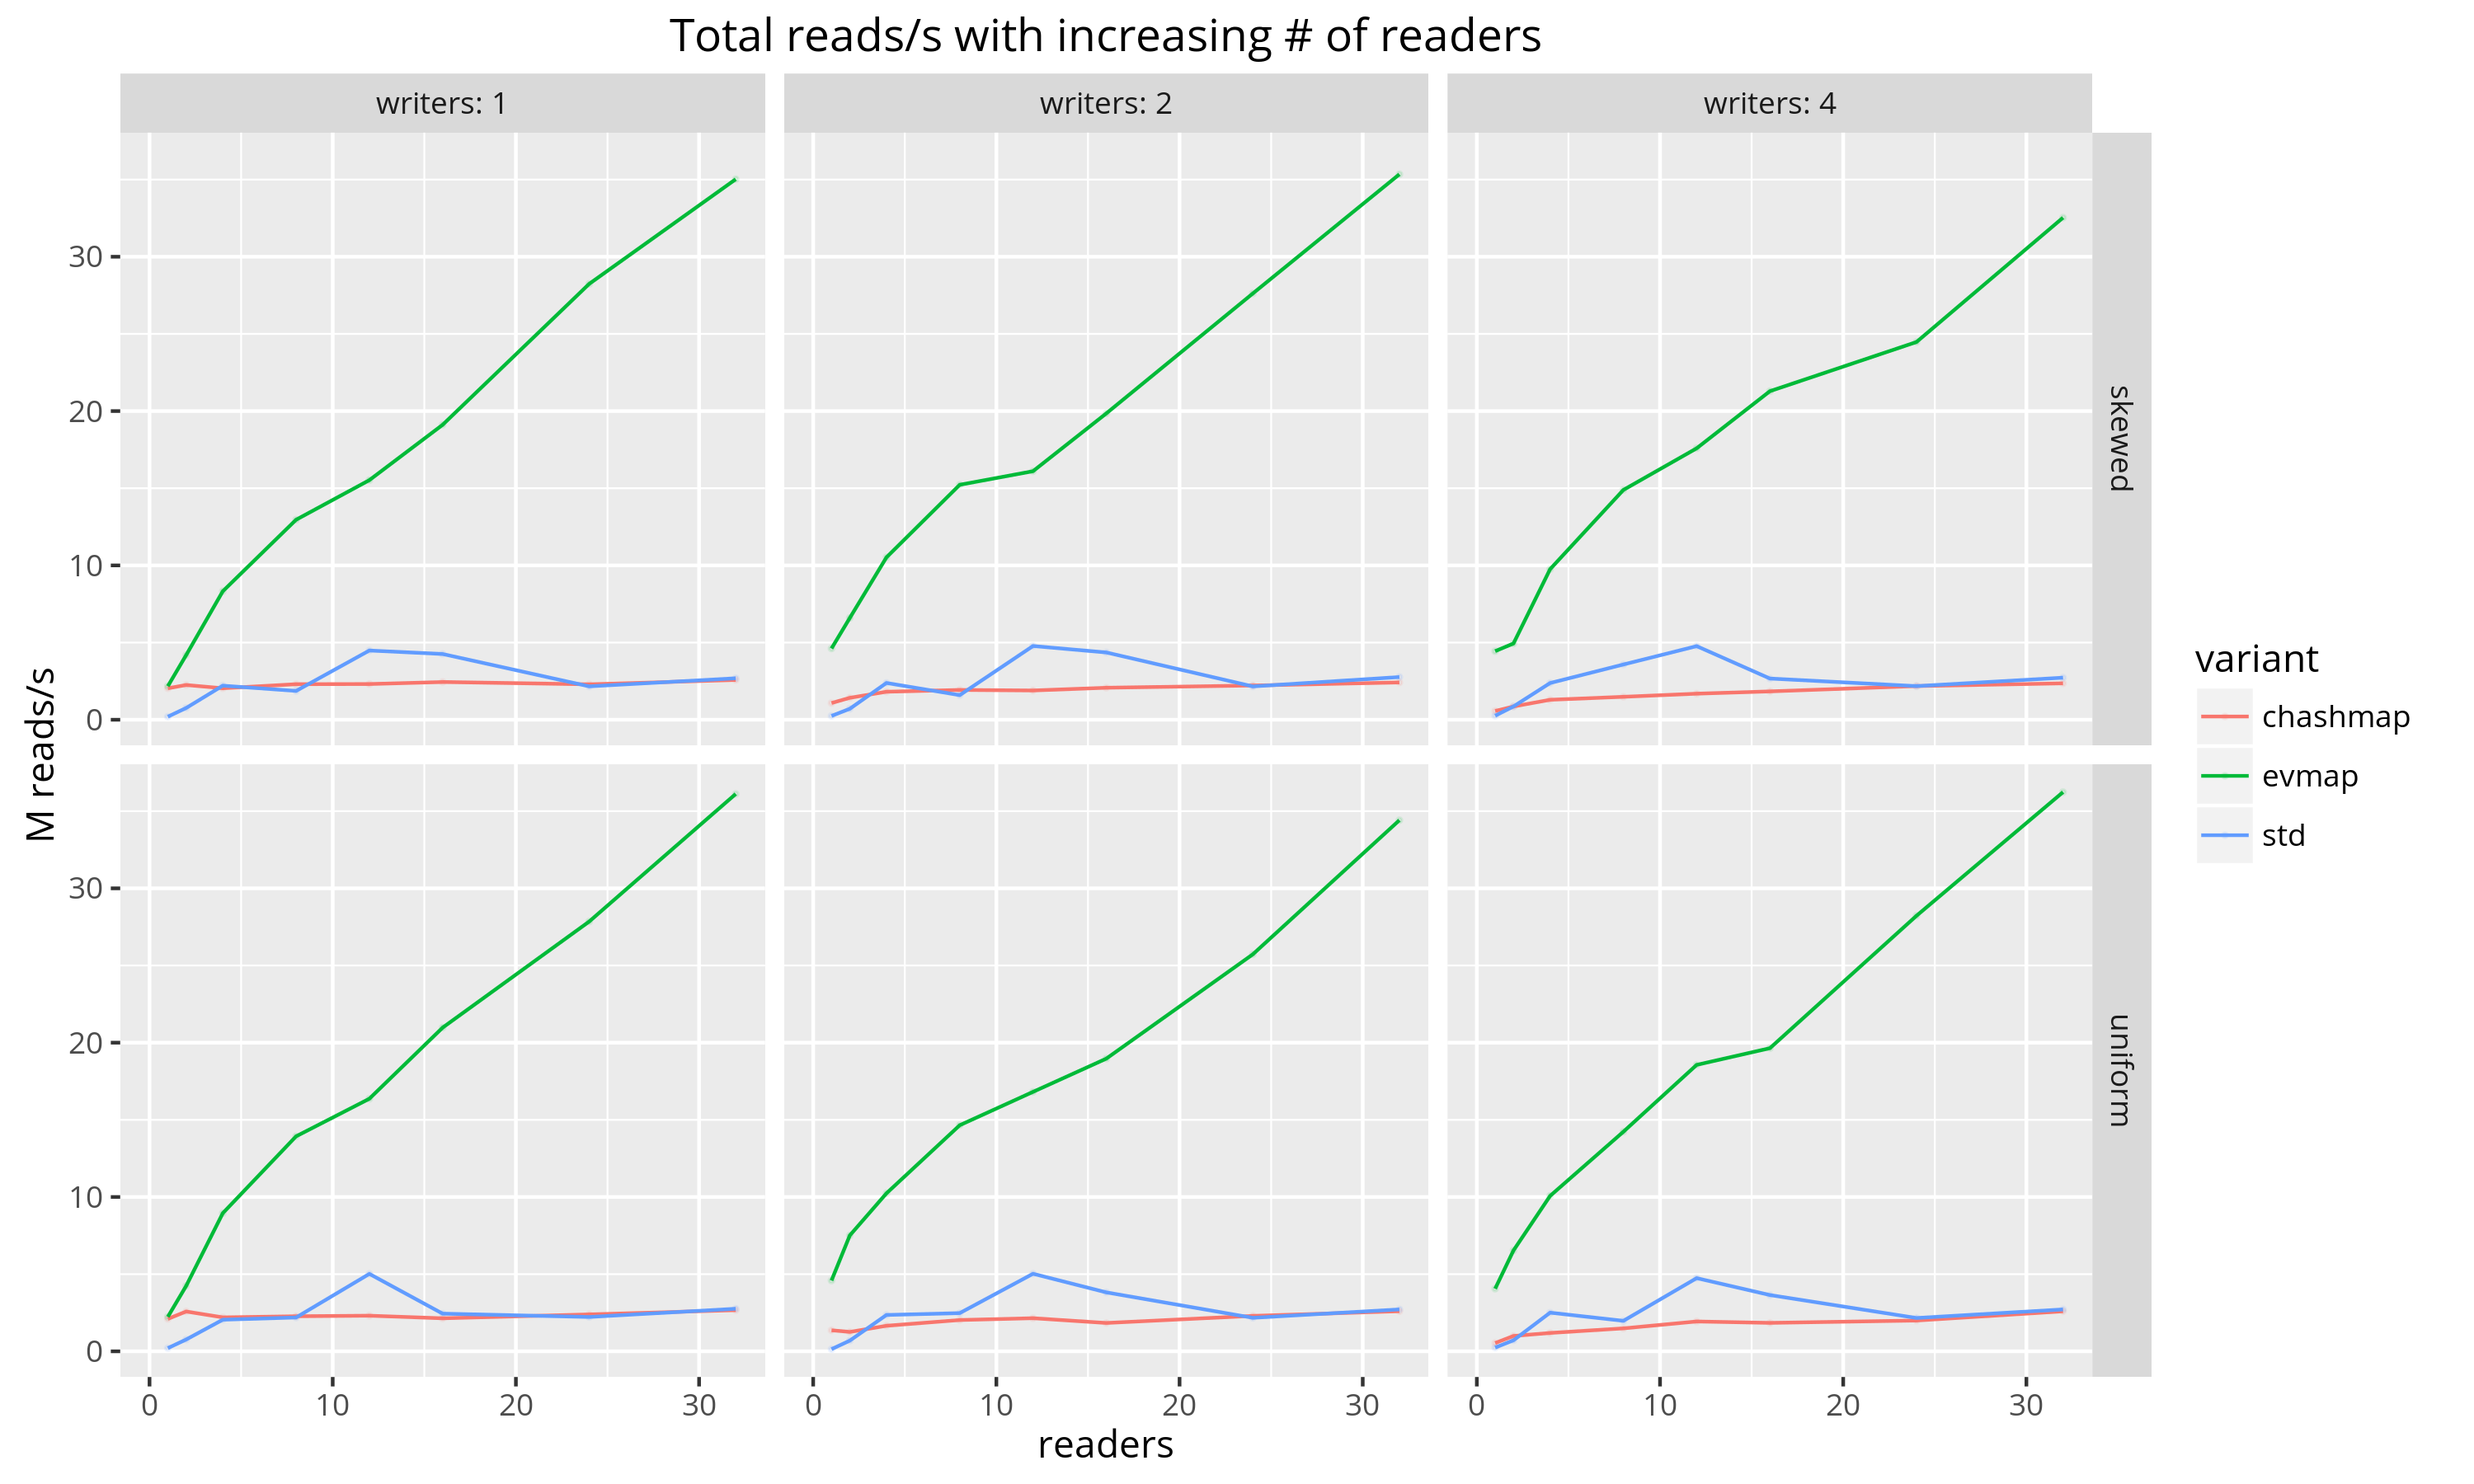
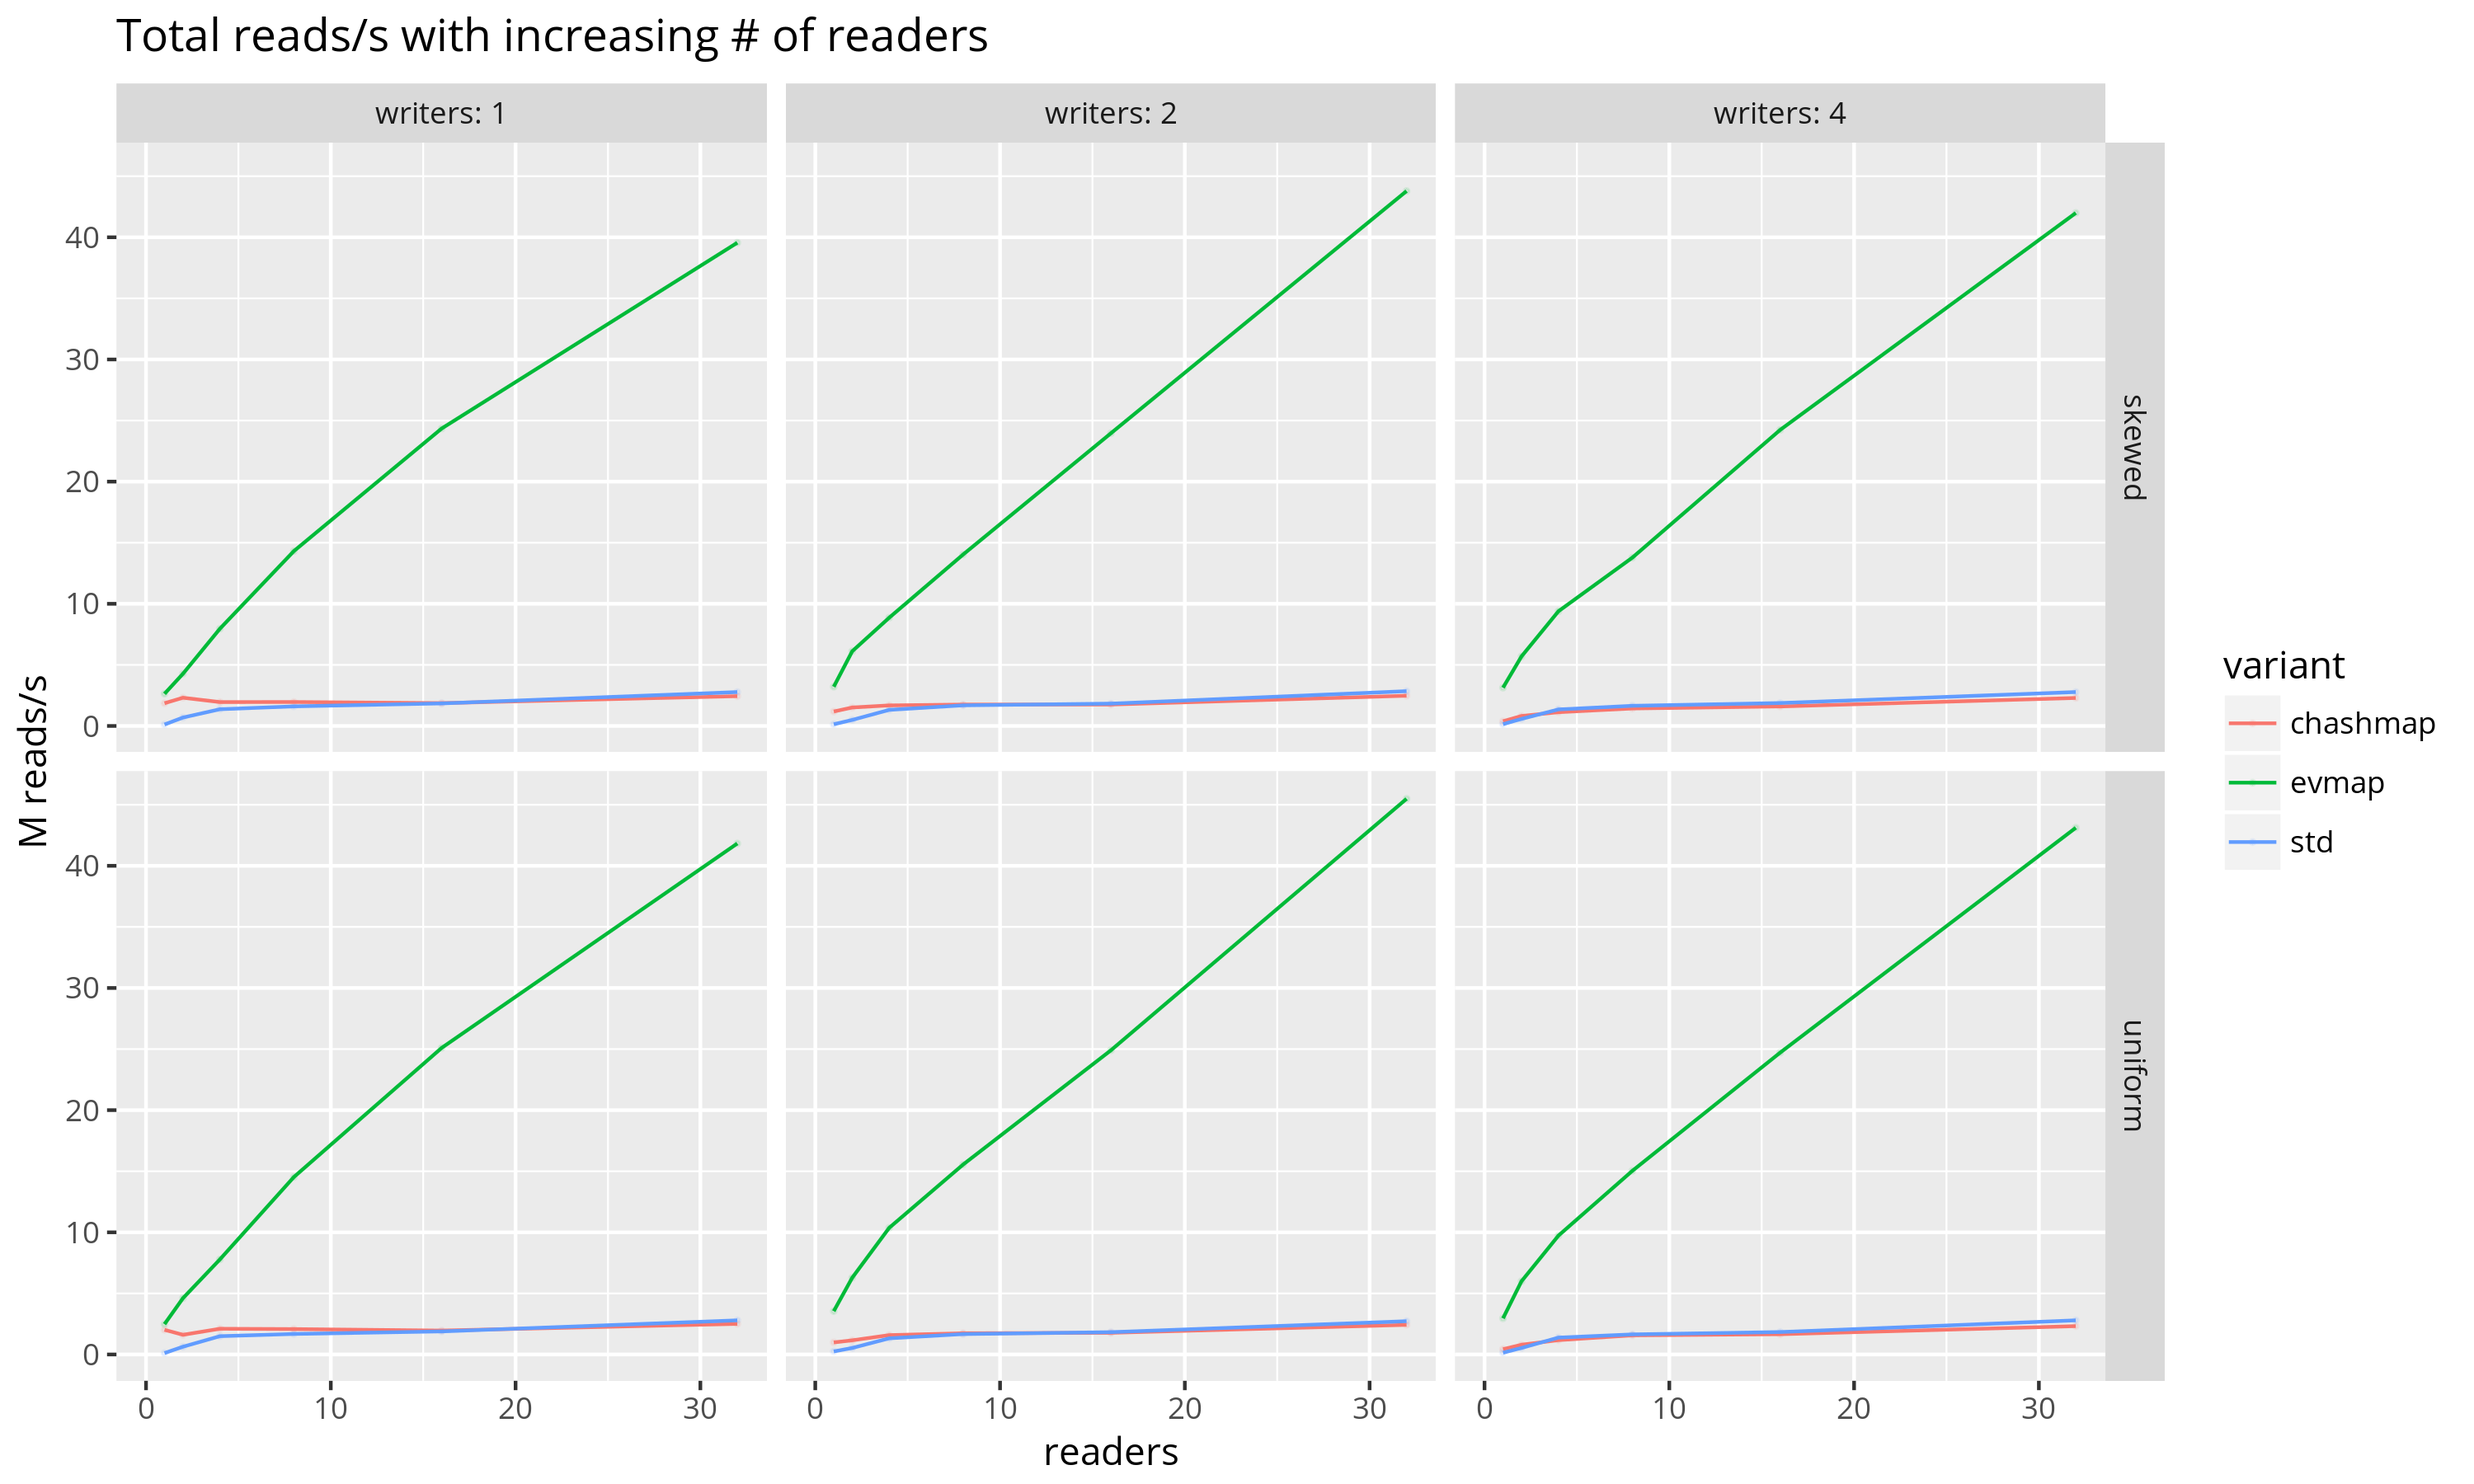
Updated results

diff --git a/README.md b/README.md
@@ -194,7 +194,7 @@ lock](https://doc.rust-lang.org/std/sync/struct.RwLock.html), as well as
 against [chashmap](https://crates.io/crates/chashmap) — a crate which provides
 "concurrent hash maps, based on bucket-level multi-reader locks". The
 benchmarks were run using the binary in [benchmark/](benchmark/src/main.rs) on
-a [48-core machine](https://github.com/mit-pdos/wiki/blob/master/hosts/tom.csail.mit.edu.md#hardware-specifications).
+a 40-core machine with Intel(R) Xeon(R) CPU E5-2660 v3 @ 2.60GHz CPUs.
 
 The benchmark runs a number of reader and writer threads in tight loops, each
 of which does a read or write to a random key in the map respectively. Results
@@ -204,8 +204,9 @@ readers and writers increases.
 
 Preliminary results show that `evmap` performs well under contention,
 especially on the read side. This benchmark represents the worst-case usage of
-`evmap` in which every write also does a `refresh`. If the map was refreshed
-less often, performance would increase.
+`evmap` in which every write also does a `refresh`. If the map is refreshed
+less often, performance increases (see bottom plot).
 
 ![Read throughput](benchmark/read-throughput.png)
 ![Write throughput](benchmark/write-throughput.png)
+![Write throughput](benchmark/write-with-refresh.png)

diff --git a/benchmark/README.md b/benchmark/README.md
@@ -2,12 +2,18 @@ To reproduce results, run with:
 
 ```shell
 cargo build --release
+rm results.log
 for w in 1 2 4; do
   for d in uniform skewed; do
     for r in 1 2 4 8 16 32; do
-      target/release/concurrent-map-bench -r $r -w $w -d $d;
+      target/release/concurrent-map-bench -r $r -w $w -d $d -c | tee -a results.log;
     done;
   done;
-done | tee results.log
+done
+for e in 2 4 8 16 32 64 128 256 512 1024; do
+  for d in uniform skewed; do
+    target/release/concurrent-map-bench -r 1 -w 1 -d $d -e $e | tee -a results.log;
+  done;
+done
 R -q --no-readline --no-restore --no-save < plot.r
 ```
